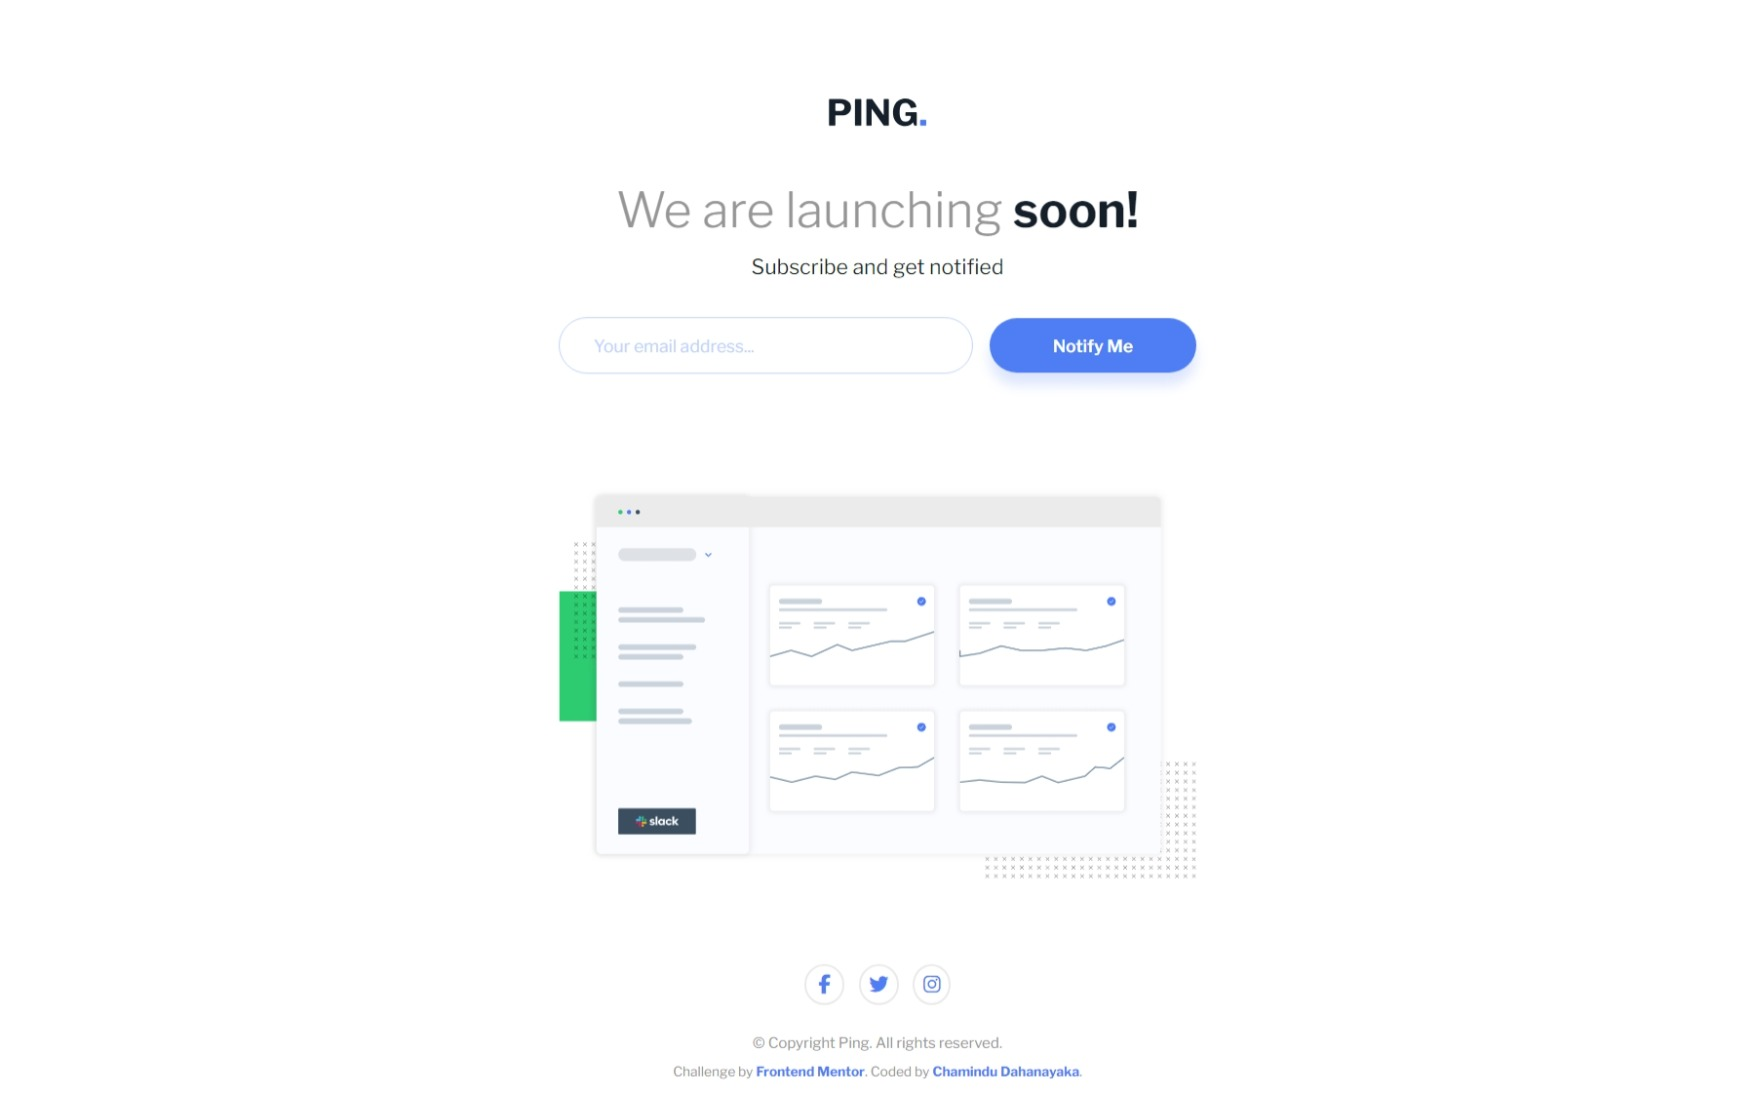
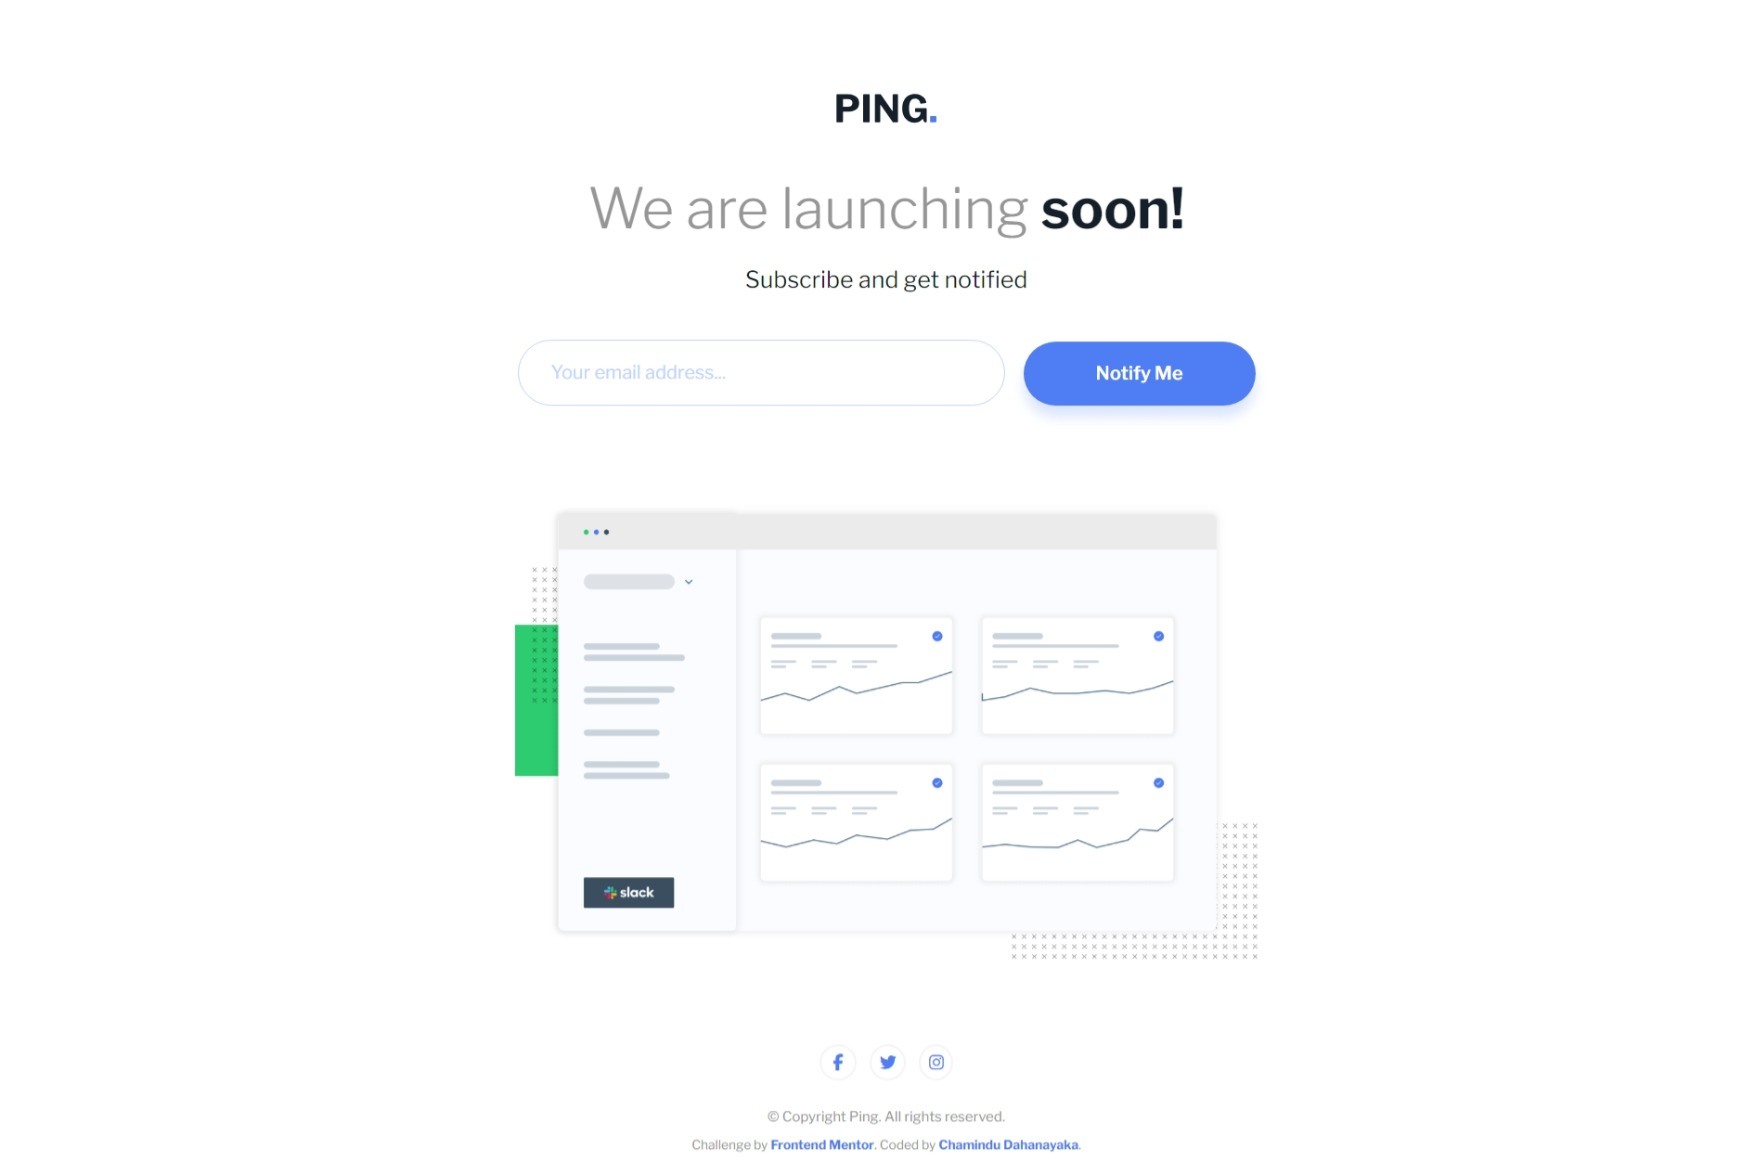
Fix style code

diff --git a/index.html b/index.html
@@ -5,169 +5,10 @@
   <meta name="viewport" content="width=device-width, initial-scale=1.0">
 
   <link rel="icon" type="image/png" sizes="32x32" href="./images/favicon-32x32.png">
+  <link rel="stylesheet" href="style.css">
   <script src="https://kit.fontawesome.com/f9ecd33115.js" crossorigin="anonymous"></script>
   
   <title>Frontend Mentor | Ping coming soon page</title>
-  <style>
-    @import url('https://fonts.googleapis.com/css2?family=Libre+Franklin:ital,wght@0,100..900;1,100..900&display=swap');
-
-    *{
-      margin: 0;
-      padding: 0;
-      box-sizing: border-box;
-      font-family: "Libre Franklin", sans-serif;
-    }
-    body{
-      background-color: hsl(0, 0%, 100%);
-      max-height: 100vh;
-      width: 100%;
-    }
-    header{
-      text-align: center;
-      margin: 80px 20px 20px ;
-    }
-    header img{
-      width: clamp(60px, 18%, 80px);
-      padding-bottom: 40px;
-    }
-    h1 span{
-      font-weight: 300;
-      color: hsl(0, 0%, 59%);
-    }
-    h1{
-      font-size: clamp(26px, 6vw, 40px);
-      color: hsl(209, 33%, 12%);
-      font-weight: 700;
-    }
-    header p{
-      font-size: clamp(14px, 3vw, 17px);
-      color: hsl(209, 33%, 12%);
-      padding: 20px 0;
-    }
-    main{
-      text-align: center;
-    }
-    input{
-      width: 78%;
-      padding: 14px 36px;
-      border: 1px solid hsl(223, 100%, 88%);
-      border-radius: 25px;
-      font-size: 14px;
-    }
-    input::placeholder{
-      color: hsl(223, 100%, 88%);
-    }
-    #error{
-      color: hsl(354, 100%, 66%);
-      font-style: italic;
-      font-size: clamp(12px, 3vw, 14px);
-      padding: 8px 0 16px;
-      display: none;
-    }
-    button{
-      background-color: hsl(223, 87%, 63%);
-      color: hsl(0, 0%, 100%);
-      width: 78%;
-      padding: 14px 20px;
-      border-radius: 25px;
-      border: 0;
-      margin-top: 10px;
-      font-weight: 600;
-      font-size: 14px;
-      box-shadow: 0 10px 10px hsla(223, 87%, 63%, 0.2);
-      cursor: pointer;
-    }
-    button:hover{
-      background-color: hsla(223, 87%, 63%, 0.8);
-    }
-    main img{
-      width: clamp(330px, 88%, 522px);
-      position: absolute;
-      bottom: clamp(180px, 28%, 270px);
-      transform: translateX(-50%);
-      z-index: -1;
-    }
-    footer{
-      text-align: center;
-      width: 100%;
-      position: fixed;
-      bottom: 0;
-    }
-    i{
-      color: hsl(223, 87%, 63%);
-      padding: 10px;
-      margin: 10px 6px 34px;
-      font-size: 16px;
-      border: 2px solid hsla(0, 0%, 59%, 0.2);
-      border-radius: 50%;
-      transition: background-color 0.3s ease-in;
-      cursor: pointer;
-    }
-    i:hover{
-      color: hsl(0, 0%, 100%);
-      background-color: hsl(223, 87%, 63%);
-    }
-    .fa-facebook-f{
-      padding: 10px 14px;
-    }
-    .copyright{
-      font-size: clamp(8px, 3vw, 12px);
-      color: hsl(0, 0%, 59%);
-    }
-    .attribution{
-      font-size: 11px;
-      text-align: center;
-      margin-top: 20px;
-      padding-bottom: 15px;
-      color: hsl(0, 0%, 59%);
-    }
-    .attribution a{
-      color: hsl(223, 87%, 63%);
-      text-decoration: none;
-      font-weight: 700;
-    }
-
-    @media only screen and (min-width: 600px){
-      input{
-        width: clamp(100px, 40%, 340px);
-        padding: 14px 28px;
-      }
-      #error{
-        width: 100%;
-        font-size: 10px;
-        position: absolute;
-        padding-right: 300px;
-      }
-      button{
-        width: clamp(50px, 20%, 170px);
-        margin-left: 10px;
-      }
-      main img{
-        bottom: 300px;
-      }
-      i{
-        font-size: 16px;
-        padding: 7px;
-        margin: 0 4px 24px;
-      }
-      .fa-facebook-f{
-        padding: 7px 10px;
-      }
-      .attribution{
-        margin-top: 10px;
-      }
-    }
-
-    @media only screen and (min-width: 960px){
-      header p{
-        padding-top: 12px;
-        padding-bottom: 2px;
-      }
-      main img{
-        bottom: 180px;
-      }
-    }
-  </style>
 </head>
 <body>
   <header>
@@ -178,8 +19,11 @@
 
   <main>
     <form>
-      <input type="email" name="Email" id="email" placeholder="Your email address..." >
-      <p id="error"></p>
+      <div>
+        <input type="email" name="Email" id="email" placeholder="Your email address..." >
+        <span id="error"></span>
+      </div>
+      
       <button type="button" id="btn" onclick="notifyMe()">Notify Me</button>
     </form>
     <img src="images/illustration-dashboard.png" alt="Illustration Dashboard">
@@ -202,6 +46,7 @@
     let emailInput = document.getElementById("email");
     let errorTxt = document.getElementById("error");
     let btn = document.getElementById("btn");
+    let deviceWidth = window.innerWidth || document.documentElement.clientWidth || document.body.clientWidth;
 
     function notifyMe(){
 
@@ -215,6 +60,10 @@
         emailInput.style.borderColor = "hsl(354, 100%, 66%)";
       }else{
         btn.type = "submit";
+      }
+
+      if(deviceWidth < 600){
+        btn.style.marginTop = "40px";
       }
     }
   </script>

diff --git a/style.css b/style.css
@@ -1,0 +1,159 @@
+@import url('https://fonts.googleapis.com/css2?family=Libre+Franklin:ital,wght@0,100..900;1,100..900&display=swap');
+
+*{
+    margin: 0;
+    padding: 0;
+    box-sizing: border-box;
+    font-family: "Libre Franklin", sans-serif;
+}
+body{
+    background-color: hsl(0, 0%, 100%);
+}
+header{
+    text-align: center;
+    margin: 80px 20px 20px ;
+}
+header img{
+    width: clamp(60px, 18%, 86px);
+    padding-bottom: 40px;
+}
+h1 span{
+    font-weight: 300;
+    color: hsl(0, 0%, 59%);
+}
+h1{
+    font-size: clamp(26px, 6vw, 48px);
+    color: hsl(209, 33%, 12%);
+    font-weight: 700;
+}
+header p{
+    font-size: clamp(14px, 3vw, 20px);
+    color: hsl(209, 33%, 12%);
+    padding: 20px 0;
+}
+main{
+    text-align: center;
+}
+input{
+    width: 78%;
+    padding: 14px 36px;
+    border: 1px solid hsl(223, 100%, 88%);
+    border-radius: 25px;
+    font-size: 14px;
+}
+input::placeholder{
+    color: hsl(223, 100%, 88%);
+}
+#error{
+    color: hsl(354, 100%, 66%);
+    font-style: italic;
+    font-size: clamp(12px, 3vw, 14px);
+    padding: 8px 0 0;
+    display: none;
+    position: absolute;
+    width: 100%;
+}
+button{
+    background-color: hsl(223, 87%, 63%);
+    color: hsl(0, 0%, 100%);
+    width: 78%;
+    padding: 14px 20px;
+    border-radius: 25px;
+    border: 0;
+    margin-top: 10px;
+    font-weight: 600;
+    font-size: 14px;
+    box-shadow: 0 10px 10px hsla(223, 87%, 63%, 0.2);
+    cursor: pointer;
+    position: absolute;
+    transform: translateX(-50%);
+}
+button:hover{
+    background-color: hsla(223, 87%, 63%, 0.8);
+}
+main img{
+    width: clamp(330px, 88%, 640px);
+    margin-top: 120px;
+}
+footer{
+    text-align: center;
+    width: 100%;
+    margin-top: 70px;
+}
+i{
+    color: hsl(223, 87%, 63%);
+    padding: 10px;
+    margin: 10px 6px 34px;
+    font-size: 16px;
+    border: 2px solid hsla(0, 0%, 59%, 0.1);
+    border-radius: 50%;
+    transition: background-color 0.3s ease-in;
+    cursor: pointer;
+}
+i:hover{
+    color: hsl(0, 0%, 100%);
+    background-color: hsl(223, 87%, 63%);
+}
+.fa-facebook-f{
+    padding: 10px 14px;
+}
+.copyright{
+    font-size: clamp(8px, 3vw, 12px);
+    color: hsl(0, 0%, 59%);
+}
+.attribution{
+    font-size: 11px;
+    text-align: center;
+    margin-top: 20px;
+    padding-bottom: 15px;
+    color: hsl(0, 0%, 59%);
+}
+.attribution a{
+    color: hsl(223, 87%, 63%);
+    text-decoration: none;
+    font-weight: 700;
+}
+
+@media only screen and (min-width: 600px){
+    input{
+        width: 420px;
+        padding: 18px 28px;
+        font-size: 16px;
+        border-radius: 40px;
+    }
+    form{
+        display: flex;
+        justify-content: center;
+    }
+    #error{
+        text-align: left;
+        position: absolute;
+        font-size: 12px;
+        padding-left: 28px;
+        width: auto;
+    }
+    button{
+        position: relative;
+        width: 200px;
+        margin-left: 16px;
+        font-size: 16px;
+        padding: 18px 20px;
+        border-radius: 40px;
+        margin-top: auto;
+        transform: translateX(0);
+    }
+    main img{
+        margin-top: 86px;
+    }
+    i{
+        font-size: 14px;
+        padding: 7px;
+        margin: 0 4px 24px;
+    }
+    .fa-facebook-f{
+        padding: 7px 10px;
+    }
+    .attribution{
+        margin-top: 10px;
+    }
+  }

diff --git a/README.md b/README.md
@@ -55,6 +55,8 @@ header img{
 }
 ```
 ```js
+let deviceWidth = window.innerWidth || document.documentElement.clientWidth || document.body.clientWidth;
+
 function notifyMe(){
   if(emailInput.value.length == 0){
     errorTxt.style.display = "block";
@@ -66,6 +68,10 @@ function notifyMe(){
     emailInput.style.borderColor = "hsl(354, 100%, 66%)";
   }else{
     btn.type = "submit";
+  }
+
+  if(deviceWidth < 600){
+    btn.style.marginTop = "40px";
   }
 }
 ```
